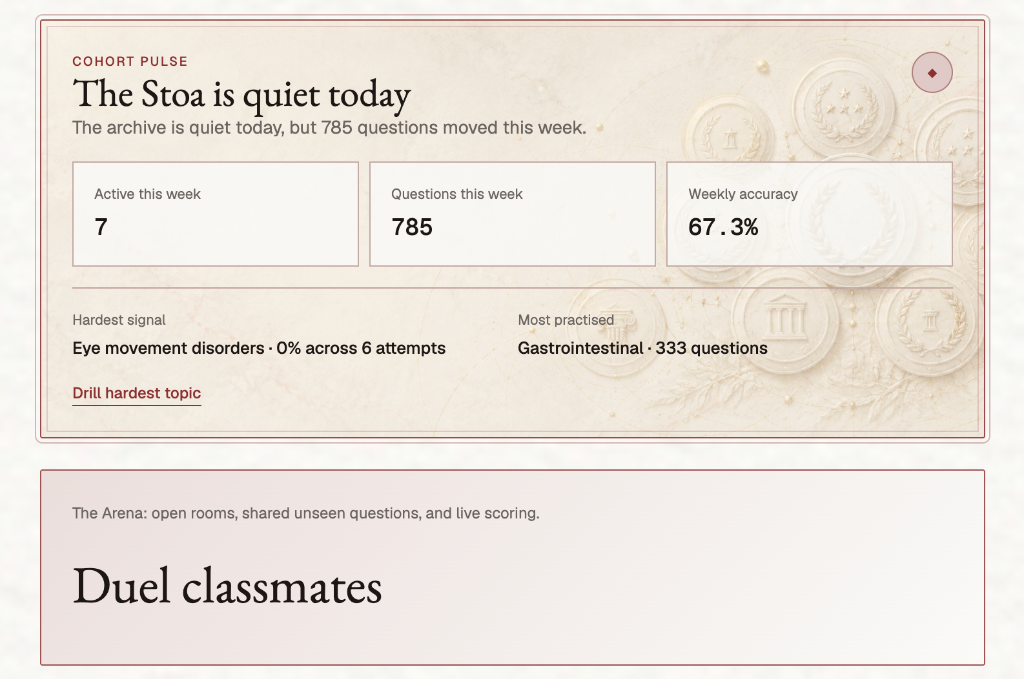
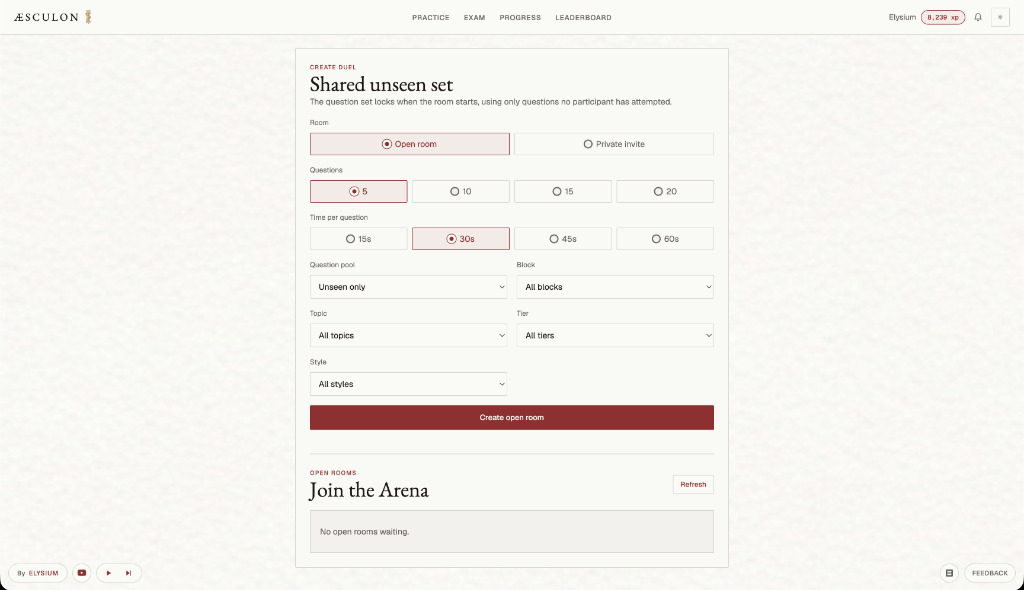
Update Visual Showcase with full-width up-to-date screenshots

diff --git a/README.md b/README.md
@@ -13,20 +13,27 @@
 
 ## 🌟 Visual Showcase
 
-| **Stoa (Home Dashboard) — Light Theme** | **Stoa (Home Dashboard) — Dark Theme** |
-|:---:|:---:|
-| ![Light Mode Dashboard](screenshots/stoa_dashboard_light.png) | ![Dark Mode Dashboard](screenshots/stoa_dashboard_dark.png) |
-| A classical ivory-textured workspace focusing on daily study targets, active streak counters, and peer leaderboards. | An obsidian-textured low-light theme optimised for late-night study sessions. |
+### 1. Stoa (Home Dashboard)
+![Stoa Dashboard](screenshots/stoa_dashboard.png)
+*A classical ivory-textured study dashboard highlighting user statistics, current cohort activity, active spaced repetition review counts, and multiplayer arena lobbies.*
 
-| **Agora (Practice Arena)** | **Progress Analytics & SVG Charts** |
-|:---:|:---:|
-| ![Practice Screen](screenshots/spaced_repetition_practice.png) | ![Progress Page Charts](screenshots/progress_charts.png) |
-| Calmed practice loop featuring active option hover states, detailed anatomical rationale, and reviews. | Custom SVG columns and radar webs that dynamically visualise study effort and accuracy across medical blocks. |
+---
 
-| **Multiplayer Duel Arena** | **Patch Notes / Updates Dialog** |
-|:---:|:---:|
-| ![Multiplayer Lobby](screenshots/multiplayer_arena.png) | ![Patch Notes Popover](screenshots/patch_notes_modal.png) |
-| Active multiplayer room creation, filtering by cohort, and real-time ready-up statuses. | Dynamic floating popover detailing the the latest release patch notes, managed directly from an admin panel. |
+### 2. Agora (Practice Arena)
+![Agora Practice Screen](screenshots/spaced_repetition_practice.png)
+*A focused, distraction-free practice environment displaying active Single Best Answer (SBA) questions, option choices, and live study session metrics.*
+
+---
+
+### 3. Progress & Analytics
+![Progress Page Charts](screenshots/progress_charts.png)
+*Visual progress tracker showing historical study effort (rolling XP columns) alongside overall accuracy, review counts, and question pool coverage.*
+
+---
+
+### 4. Multiplayer Duel Arena
+![Multiplayer Arena Lobby](screenshots/multiplayer_arena.png)
+*A shared matchmaking lobby for study cohorts, allowing custom question count configurations, time limits, and category filtering.*
 
 ---
 